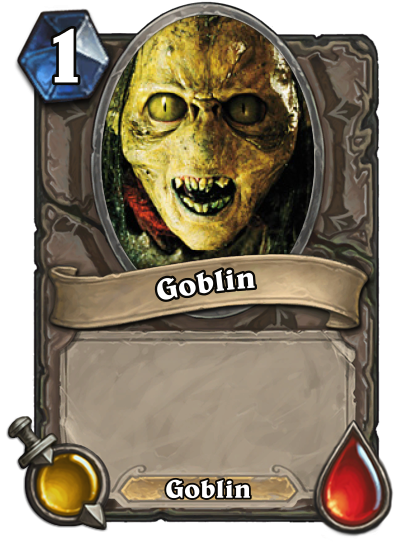
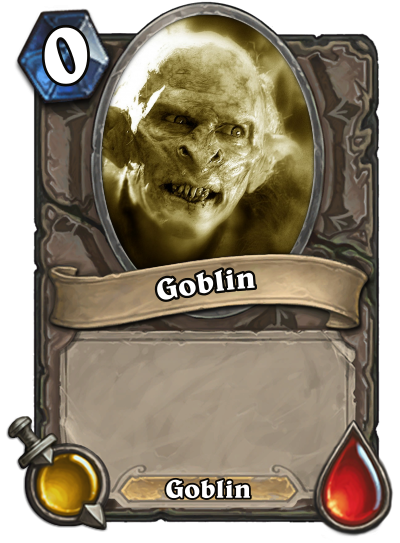
Made card pictures for summoned cards and deleted this point from ToDO.

Changed region(s): [[0.24, 0.0295, 0.81, 0.5009], [0.09, 0.0295, 0.24, 0.1768]]

diff --git a/ToDo.md b/ToDo.md
@@ -13,5 +13,4 @@
 
 ###? Making the desk and hand size to 7
 ### Get rid of Legendary cards, cause the label is out of position.
-### Making card pictures for Summoned cards.
 ### Make mana cristals
